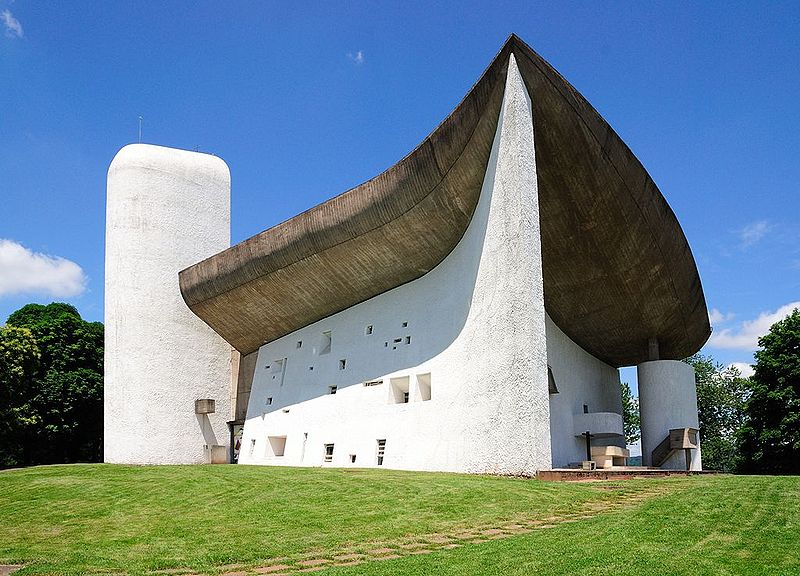
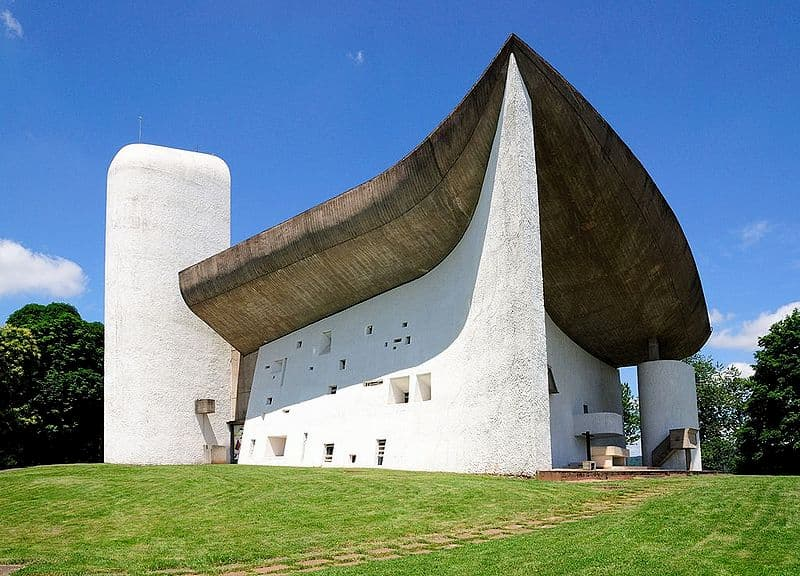
images compressed to smaller size

diff --git a/style.css b/style.css
@@ -500,7 +500,3 @@ main.works h1 {
 .work-img.museum {
   background-image: url("img/works/museum.jpg");
 }
-
-/* ================
-  media query 
-  ================= */
